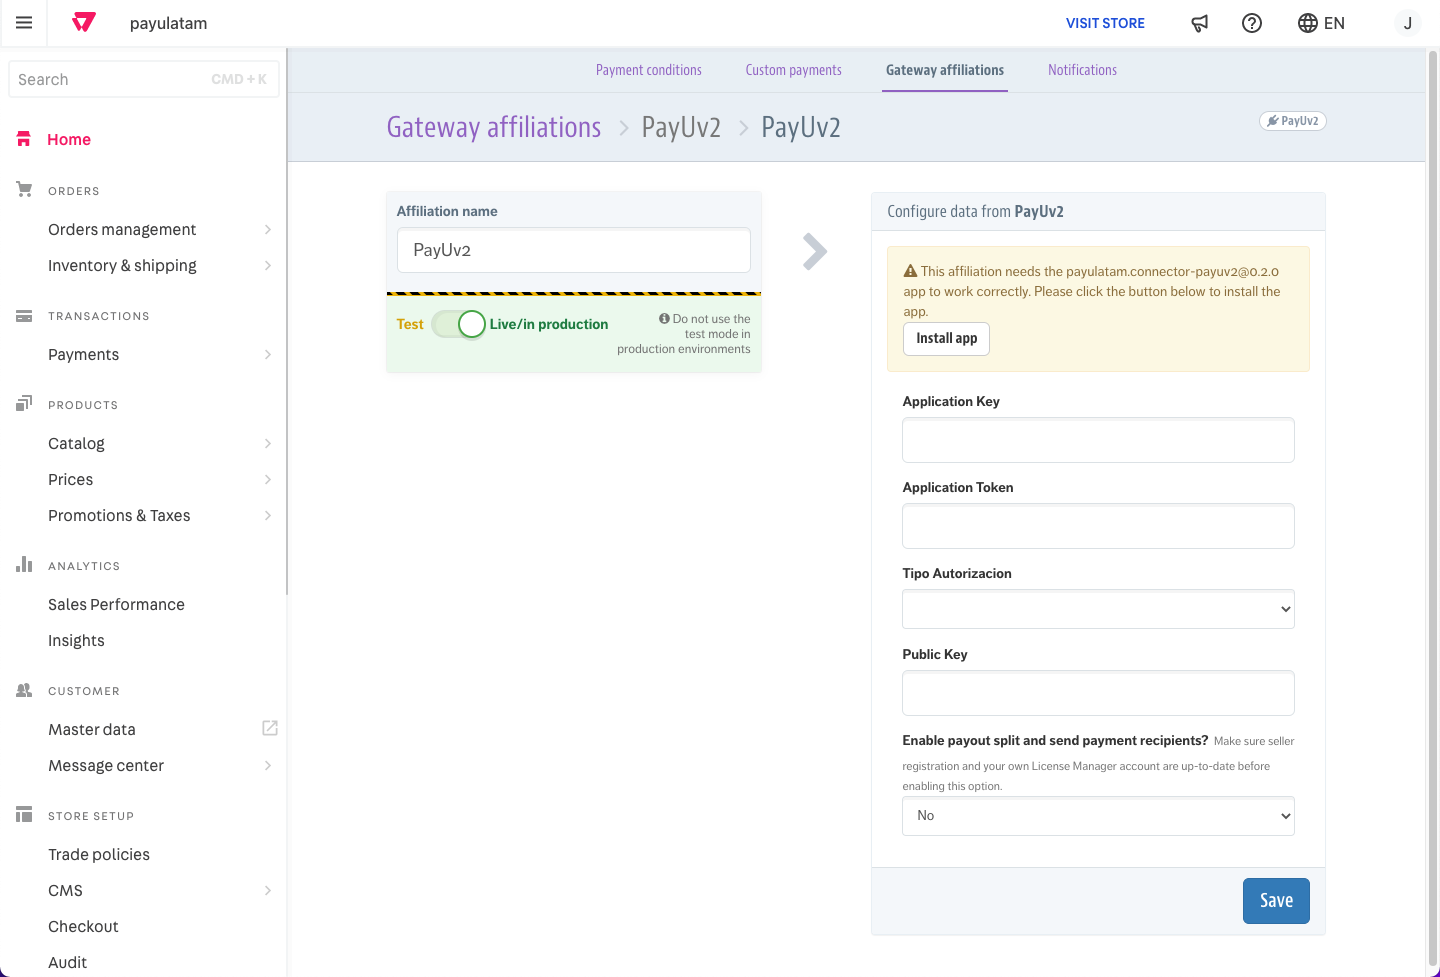
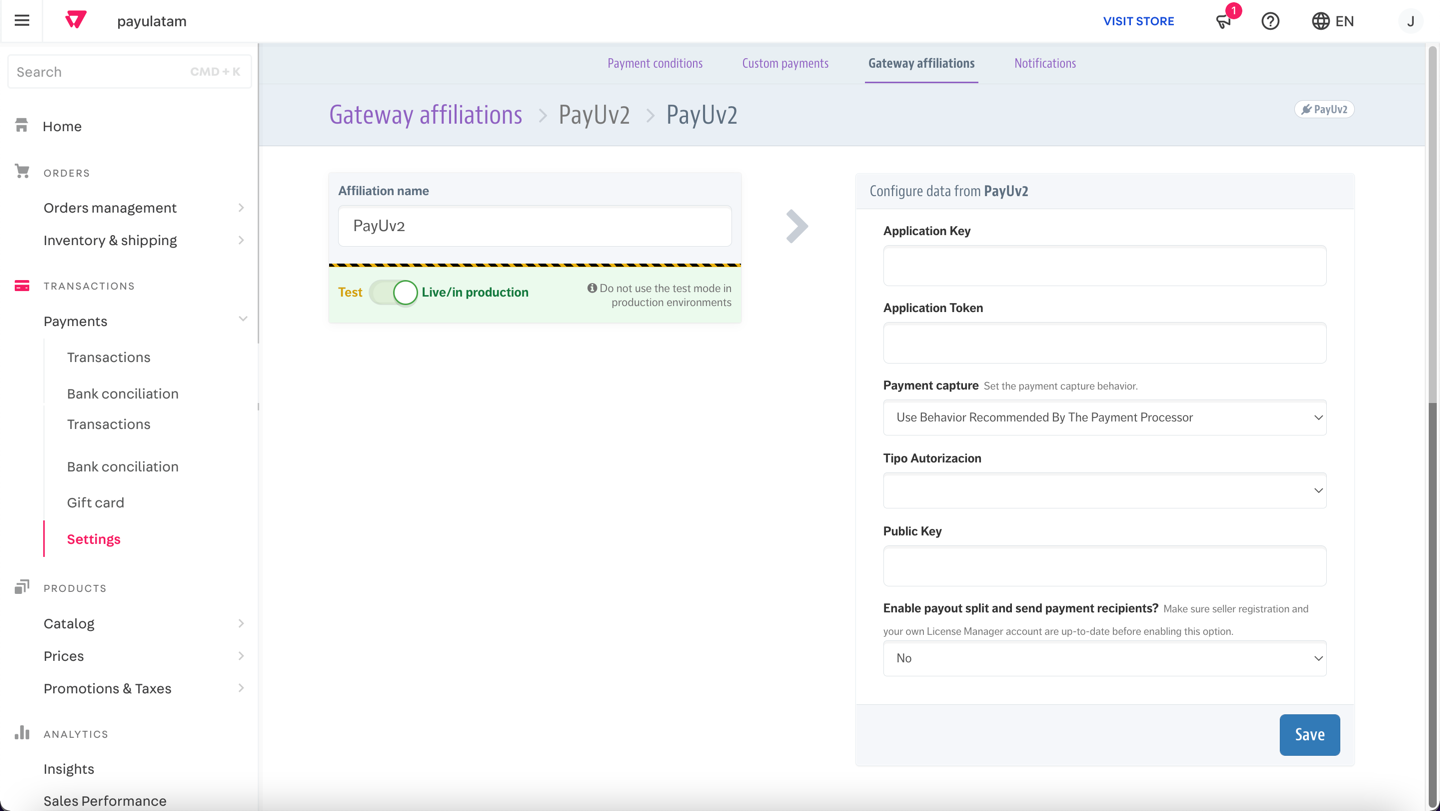
Vtex reverse integration manual

diff --git a/content/en/docs/Tools/Shopping cart plugins/Vtex.md b/content/en/docs/Tools/Shopping cart plugins/Vtex.md
@@ -202,7 +202,8 @@ The information of the connector can be obtained either:
 | Environment selector | Choose the environment where you want to create the transactions.<br>According to the selection you make here, you must provide the other parameters selecting the same environment in PaymentsOS. |
 | Application Key | App ID of the _**Business Unit**_. |
 | Application Token | Private API Key of the _**Business Unit**_. |
-| Tipo Autorizacion | Select `Autorizacion Y Captura` for this field. |
+| Payment capture | Select how you want to perform the settlement (charge) in your affiliation.<br><ul style="margin-bottom: initial;"><li>For one-step flow, select `Automatic capture immediately after payment authorization`.</li><li>For two-step flow, select `Deactivated: Not automatically captured` to execute the settlement once you invoice the order.</li></ul><br>For more information about this parameter, refer to [Custom Auto Capture Feature](https://developers.vtex.com/vtex-rest-api/docs/custom-auto-capture-feature) in the developers documentation.<br>The default value for this option is seven (7) days after the approval. |
+| Tipo Autorizacion | Choose if your payment transactions are executed in using one-step or two-step flow.<br><ul style="margin-bottom: initial;"><li>For one-step flow, select `Autorizacion y Captura`.</li><li>For two-step flow, select `Pre-Autorizacion`.</li></ul><br>Refer to the following [link]({{< ref "payments.md#payment-flows" >}}) to learn more about the Payment flows. |
 | Public Key | Public API Key of the _**Business Unit**_. |
 | Enable payout split and send payment recipients? | Select `No` for this field. |
 
@@ -224,7 +225,7 @@ PSE (Colombian Bank transfer method) is not supported through this version of th
 
 ![PrintScreen](/assets/VTEX/VTEX_13.png)
 
-{{% alert title="note" color="info"%}}
+{{% alert title="Note" color="info"%}}
 If the payment method you want to configure is not listed, you need to create it first and selected in the _**Custom payments**_ group. Refer to the [VTEX help center](https://help.vtex.com/en/tutorial/how-to-configure-a-custom-payment--tutorials_451) to learn how to create a custom payment method.
 {{% /alert %}}
 
@@ -242,12 +243,12 @@ If the payment method you want to configure is not listed, you need to create it
 
 ![PrintScreen](/assets/VTEX/VTEX_15.png)
 
-{{% alert title="note" color="info"%}}
+{{% alert title="Note" color="info"%}}
 Changes to payment conditions can take up to 10 minutes to apply to the checkout flow.
 {{% /alert %}}
 
 ## Testing the integration
-Once you have configured the Payment conditions for your payment methods you can test the integration in your store. Before moving on, make sure your PaymentsOS account is in `TEST` mode.
+Once you have configured the Payment conditions for your payment methods, it is strongly recommended to test your integration before starting to receive real transactions. As a prerequisite, make sure your PaymentsOS account is in `TEST` mode, as well as the _**Environment selector**_ in your _**Gateway affiliation**_.
 
 1. In the VTEX admin, click _**VISIT STORE**_ at the top panel.
 
@@ -267,7 +268,33 @@ Finally, click in Complete purchase
 ![PrintScreen](/assets/VTEX/VTEX_19.png)
 
 Once the purchase has been approved you can check it in:
-* VTEX Admin: _**Orders**_ > _**Orders management**_ > _**All orders**_.
-* PaymentsOS dashboard: _**Payments**_ > _**Search**_.<br>The parameter _**External Transaction ID**_ is the Order ID in PayU.
+* VTEX Admin: _**Payments**_ > _**Transactions**_.
+
+![PrintScreen](/assets/VTEX/VTEX_20.png)
+
+* PaymentsOS dashboard: _**Payments**_ > _**Search**_.<br><br>![PrintScreen](/assets/VTEX/VTEX_21.png)<br>The parameter _**External Transaction ID**_ inside the _**Transaction Activity**_ is the Order ID in PayU.  
+
 * PayU Module: in the [_**Sales Report**_]({{< ref "Sales-report.md" >}}) module.
+
+![PrintScreen](/assets/VTEX/VTEX_22.png)
+
 * [Queries API]({{< ref "Queries.md" >}}) using the parameter _**External Transaction ID**_ as OrderID.
+
+### Testing two-step flows
+When you have configured your _**Gateway affiliation**_ to process transactions in two-step flows, the funds authorized in the credit card are not settled until you explicitly request the settlement. To request the settlement, you need to invoice the order.
+
+To invoice an order, locate the transaction in the VTEX Admin (**Payments**_ > _**Transactions**_) and click it. Then, click the _**Order**_ button at the top right corner.
+
+![PrintScreen](/assets/VTEX/VTEX_23.png)
+
+Scroll down to the Package section, and click _**Invoice package**_.
+
+![PrintScreen](/assets/VTEX/VTEX_24.png)
+
+Provide the information of the invoice and click _**Send Invoice**_ at the end of the panel. Once the invoice is sent to the customer, the amount authorized is charged fom the customer's card.
+
+![PrintScreen](/assets/VTEX/VTEX_25.png)
+
+{{% alert title="Note" color="info"%}}
+An authorized order can be cancelled using the _**Cancel order**_ button in the Order information. When cancelling the order, PayU send a _void_ transaction which is record both in the Hub and PayU Latam.
+{{% /alert %}}
